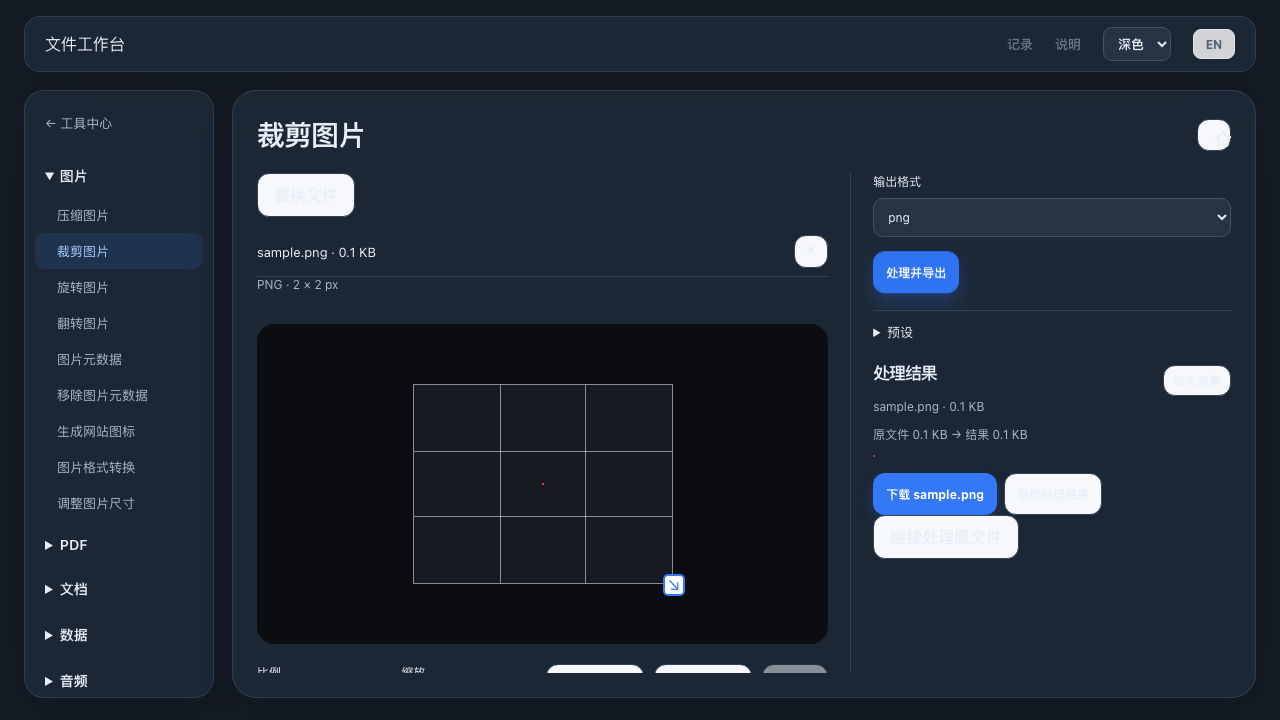
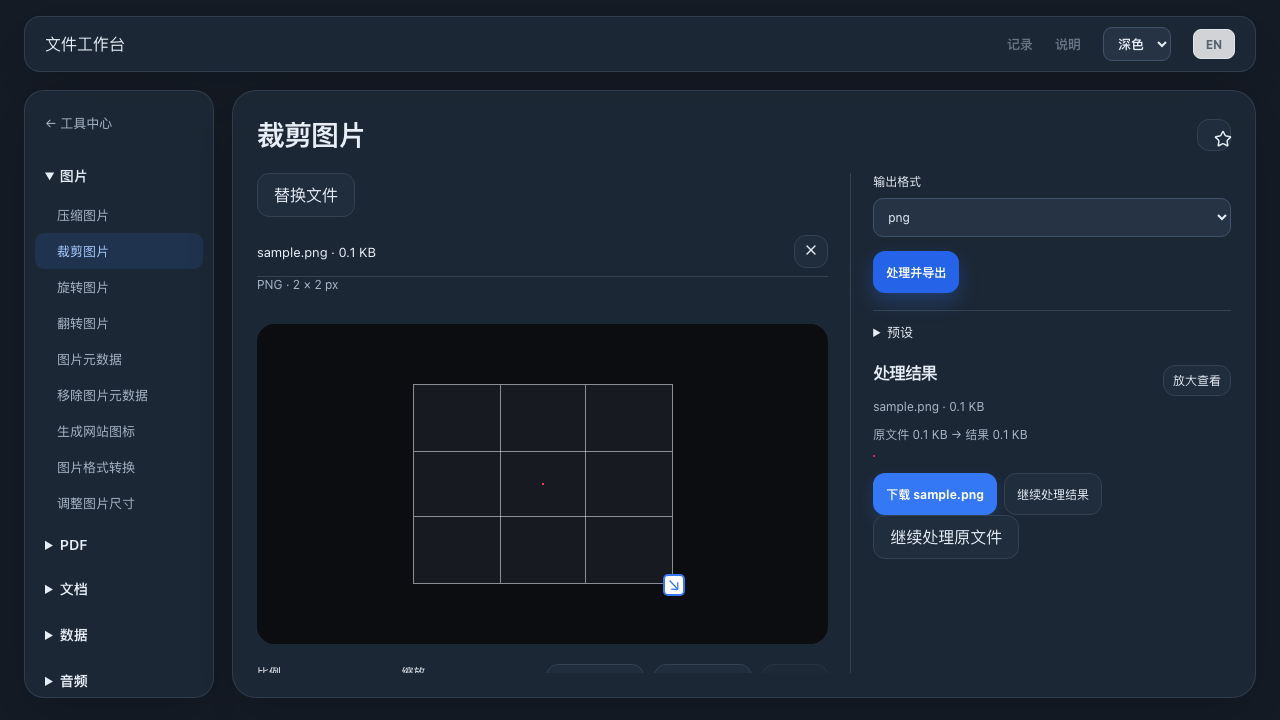
test: verify dark controls after theme transition

diff --git a/tests/e2e/workbench.spec.ts b/tests/e2e/workbench.spec.ts
@@ -49,7 +49,7 @@ for (const [route,name,file] of [
  await page.getByRole('button',{name:/^(处理并导出|计算校验值|处理文本|重命名并打包|检查目录|提取文件)$/}).click();await expect(page.locator('.tool-result')).toBeVisible({timeout:60000});await expect(page.locator('.tool-page').getByRole('alert')).toHaveCount(0);
[1 lines of base64/hex data omitted]
  if(route==='image/metadata')await expect(page.locator('.tool-result')).toContainText('宽度');
- await page.getByLabel('主题',{exact:true}).selectOption('dark');await expect(page.locator('html')).toHaveAttribute('data-theme','dark');if(route==='image/crop')await page.screenshot({path:'../../docs/screenshots/workbench-crop.png'});
+ await page.getByLabel('主题',{exact:true}).selectOption('dark');await expect(page.locator('html')).toHaveAttribute('data-theme','dark');if(route==='image/crop'){await expect(page.getByRole('button',{name:'替换文件'})).toHaveCSS('background-color','rgb(32, 45, 61)');await page.screenshot({path:'../../docs/screenshots/workbench-crop.png'});}
 });
 for(const [route,input,result] of [['json-format','{"a":1}','"a": 1'],['csv-json','name,age\nA,20','"name": "A"']] as const)test(`data ${route}`,async({page})=>{await page.goto(`/tools/data/${route}`);await page.getByLabel('输入文本',{exact:true}).fill(input);await page.getByRole('button',{name:'处理文本'}).click();await expect(page.locator('.tool-result')).toContainText(result);});
 
